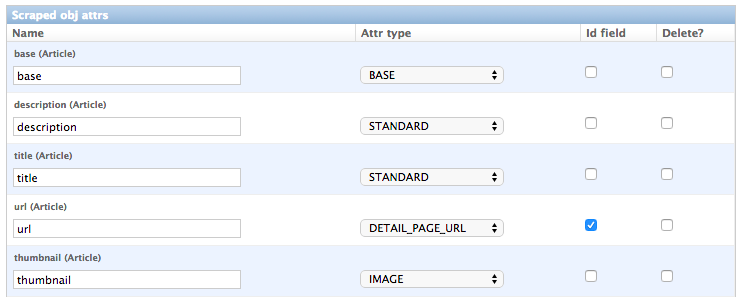
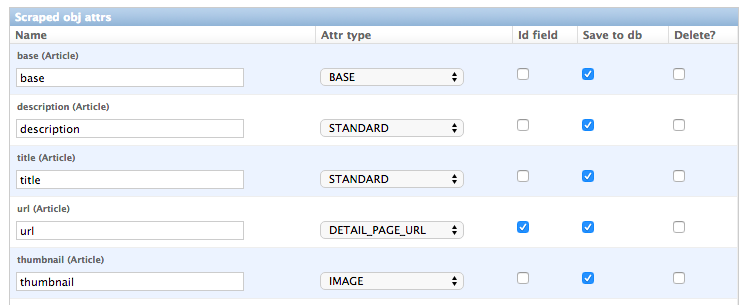
Some documentation adjustments to reflect latest request type object additions

diff --git a/docs/getting_started.rst b/docs/getting_started.rst
@@ -235,8 +235,9 @@ similar to the following screenshot below, at least if you follow the example pr
 Before being able to create scrapers in Django Dynamic Scraper you have to define which parts of the Django
 model class you defined above should be filled by your scraper. This is done via creating a new 
 :ref:`scraped_obj_class` in your Django admin interface and then adding several :ref:`scraped_obj_attr` 
-datasets to it, which is done inline in the form for the :ref:`scraped_obj_class`. The attributes for the
-object class have to be named like the attributes in your model class to be scraped. In our open news example
+datasets to it, which is done inline in the form for the :ref:`scraped_obj_class`. All attributes for the
+object class which are marked as to be saved to the database have to be named like the attributes in your 
+model class to be scraped. In our open news example
 we want the title, the description, and the url of an Article to be scraped, so we add these attributes with
 the corresponding names to the scraped obj class.
 

diff --git a/docs/index.rst b/docs/index.rst
@@ -15,7 +15,7 @@ of the features of Scrapy it lets you dynamically create and manage spiders via 
    * ``Django 1.8``/``Scrapy 0.24`` support
    * ``Javascript`` rendering
    * Scraping ``JSON`` content
-   * More flexible ID concept
+   * More flexible ID and detail page URL(s) concept
    * Custom ``HTTP Header/Body``, ``Cookies``, ``GET/POST`` requests
    * ``Scrapy Meta`` attributes
 
